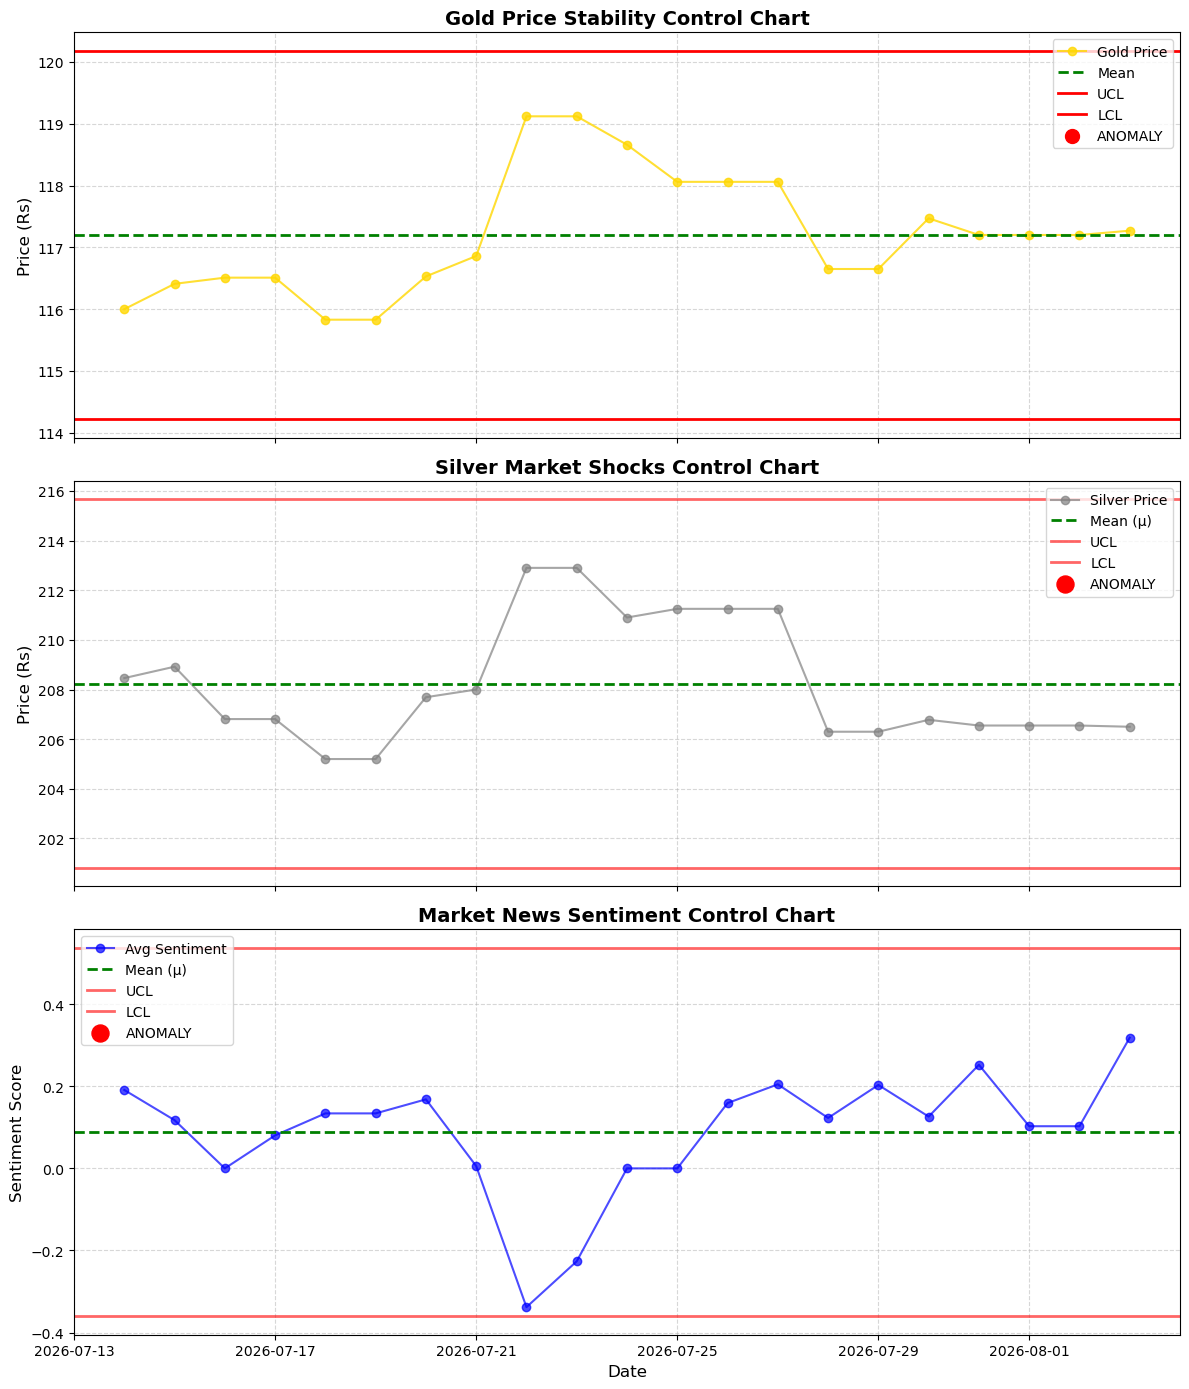
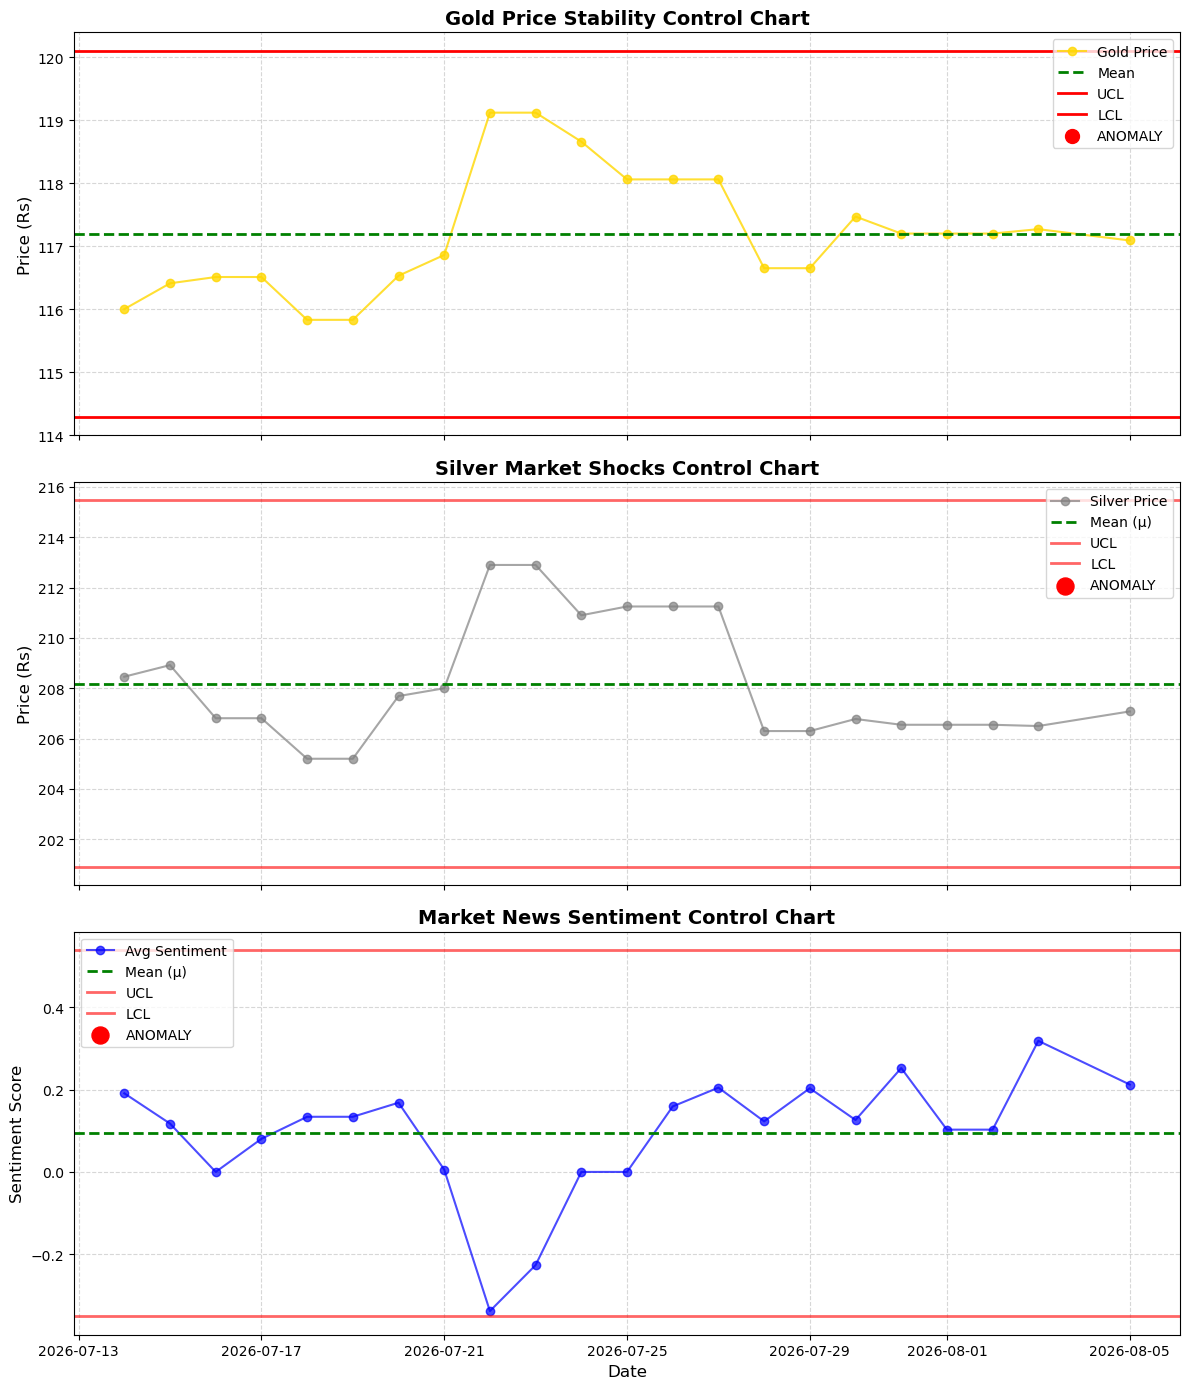
Automated Daily Market Update: 2026-08-05 08:44

diff --git a/index.html b/index.html
@@ -146,7 +146,7 @@
     <body>
         <div class="container">
             <h1>Market Sentiment Tracker (Automated)</h1>
-            <div class="timestamp">Live Data Refreshed: 03 August 2026, 08:59 PM</div>
+            <div class="timestamp">Live Data Refreshed: 05 August 2026, 08:44 AM</div>
             
             <!-- 1. Executive Summary -->
             <h3>Executive Summary</h3>
@@ -170,27 +170,27 @@
                     <tbody>
                         <tr>
                             <td><strong>Gold ETF (Rs)</strong></td>
-                            <td>117.27</td>
+                            <td>117.09</td>
                             <td>117.2</td>
-                            <td>114.22</td>
-                            <td>120.18</td>
+                            <td>114.29</td>
+                            <td>120.1</td>
                             <td>🟢 NORMAL</td>
                         </tr>
                         <tr>
                             <td><strong>Silver ETF (Rs)</strong></td>
-                            <td>206.5</td>
-                            <td>208.24</td>
-                            <td>200.82</td>
-                            <td>215.66</td>
+                            <td>207.08</td>
+                            <td>208.19</td>
+                            <td>200.91</td>
+                            <td>215.47</td>
                             <td>🟢 NORMAL</td>
                         </tr>
                         <!-- NEW: Market Sentiment Row -->
                         <tr class="sentiment-row">
                             <td><strong>Banking News Sentiment</strong></td>
-                            <td>0.3184</td>
-                            <td>0.0885</td>
-                            <td>-0.3603</td>
-                            <td>0.5373</td>
+                            <td>0.2123</td>
+                            <td>0.0941</td>
+                            <td>-0.351</td>
+                            <td>0.5392</td>
                             <td>🟢 NORMAL</td>
                         </tr>
                     </tbody>
